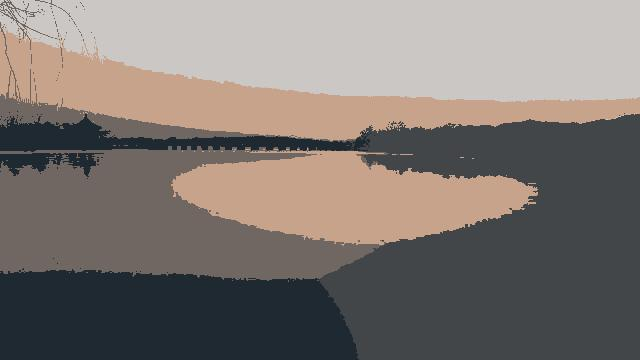
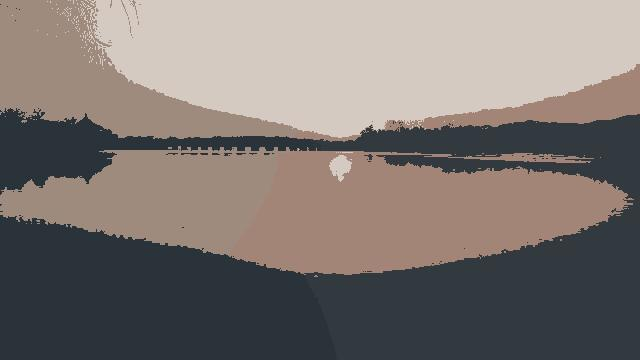
2022/12/03 00:30

diff --git a/Homework3/HW3-2 ok.py b/Homework3/HW3-2 ok.py
@@ -24,18 +24,26 @@ def kmeans_segmentation(img, pixels, K_clusters, times):
     new_center_clusters = np.zeros_like(center_clusters)
 
     count = 0
-    while(times):
+    while True:
+
         for i in range(pixels.shape[0]):
             # pixel_clusters (each pixel belongs to cluster i) : shortest distances
-            idx = np.argsort(np.linalg.norm(pixels[i] - center_clusters,axis=1))
+            idx = np.argsort(np.linalg.norm(pixels[i] - center_clusters,axis=1)) #new_center_clusters
             pixel_clusters[i] = idx[0]
+
 
         for j in range(K_clusters):
             # update K center_clusters value : comput all pixel in cluster i, and get means.
             clusters_class = np.where(pixel_clusters == j)[0]
-            new_center_clusters[j] = np.sum(pixels[clusters_class], axis=0) / clusters_class.shape[0]
+            new_center_clusters[j] = np.sum(pixels[clusters_class],axis=0)/clusters_class.shape[0] #算means 也可以用means
 
-        return pixel_clusters.reshape(height, weight)
+        if (np.allclose(new_center_clusters,center_clusters) or (count >= times)):
+            return pixel_clusters.reshape(height, weight)
+
+        else:
+            center_clusters = new_center_clusters.copy()
+            count+=1
+
 
 
 def kmeans_plusplus_segmentation(img, pixels, K_clusters, times):
@@ -71,7 +79,7 @@ def kmeans_plusplus_segmentation(img, pixels, K_clusters, times):
     new_center_clusters = np.zeros_like(center_clusters)
 
 
-    while(times):
+    while True:
         i = 0; j = 0
         for i in range(pixels.shape[0]):
             # pixel_clusters (each pixel belongs to cluster i) : shortest distances
@@ -83,7 +91,13 @@ def kmeans_plusplus_segmentation(img, pixels, K_clusters, times):
             clusters_class = np.where(pixel_clusters == j)[0]
             new_center_clusters[j] = np.sum(pixels[clusters_class], axis=0) / clusters_class.shape[0]
 
-        return pixel_clusters.reshape(height, weight)
+        if (np.allclose(new_center_clusters,center_clusters) or (count >= times)):
+            return pixel_clusters.reshape(height, weight)
+
+        else:
+            center_clusters = new_center_clusters.copy()
+            count+=1
+
 
 
 def draw_clusters_on_image(img, pixel_clusters):
